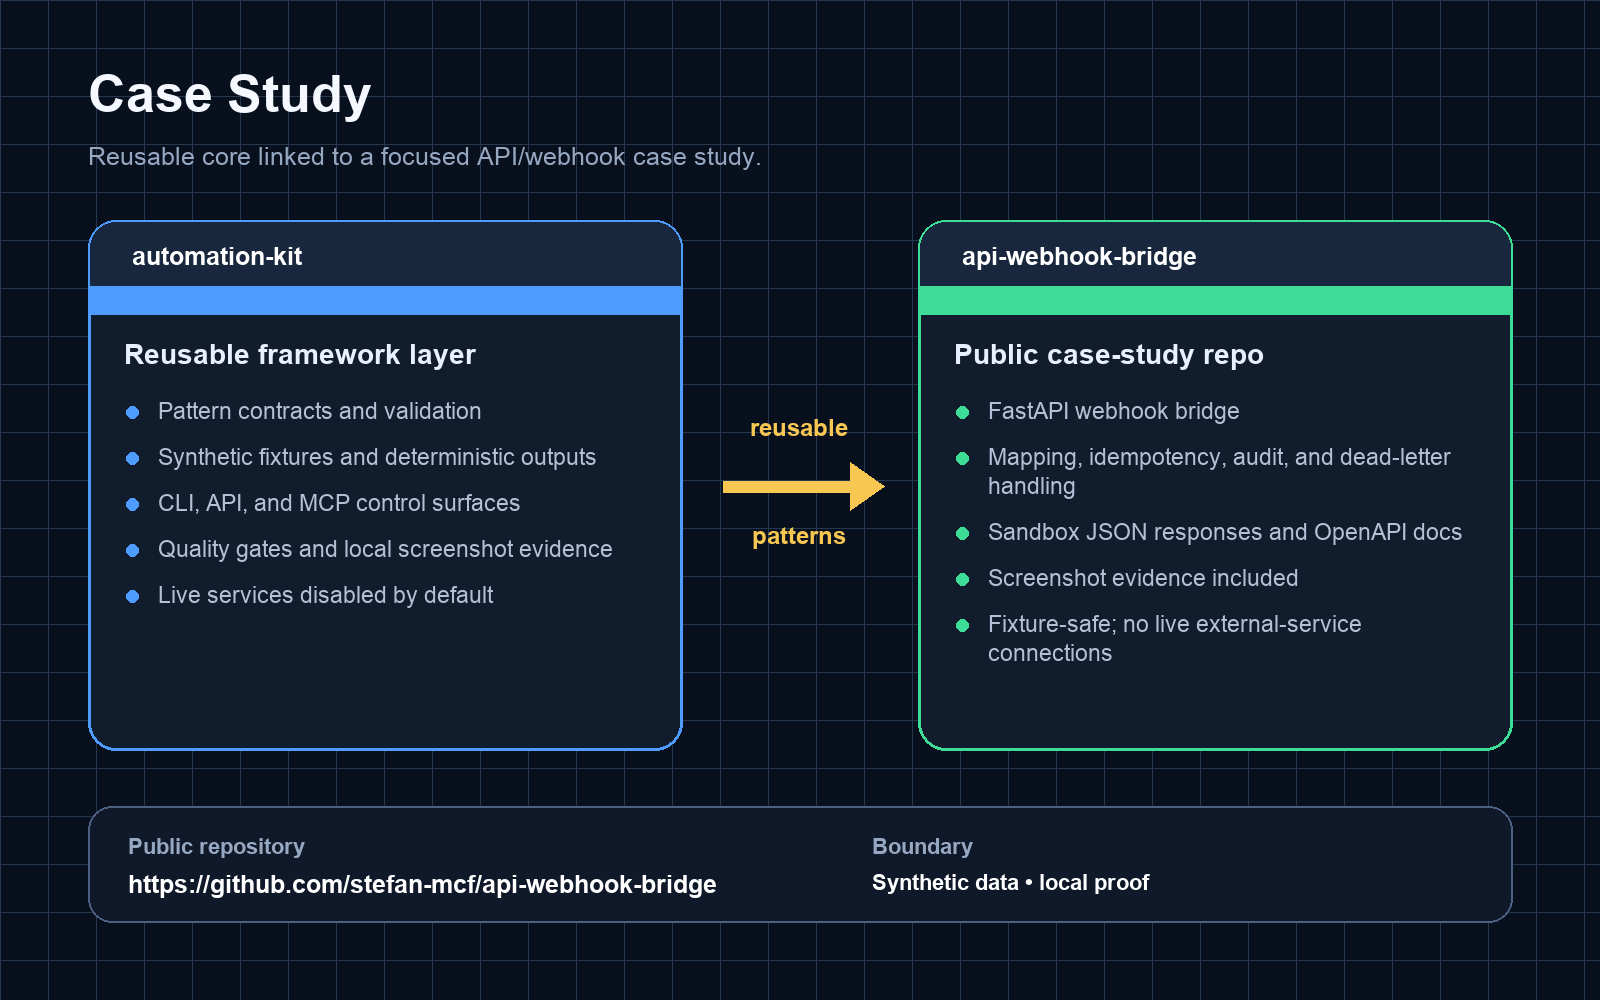
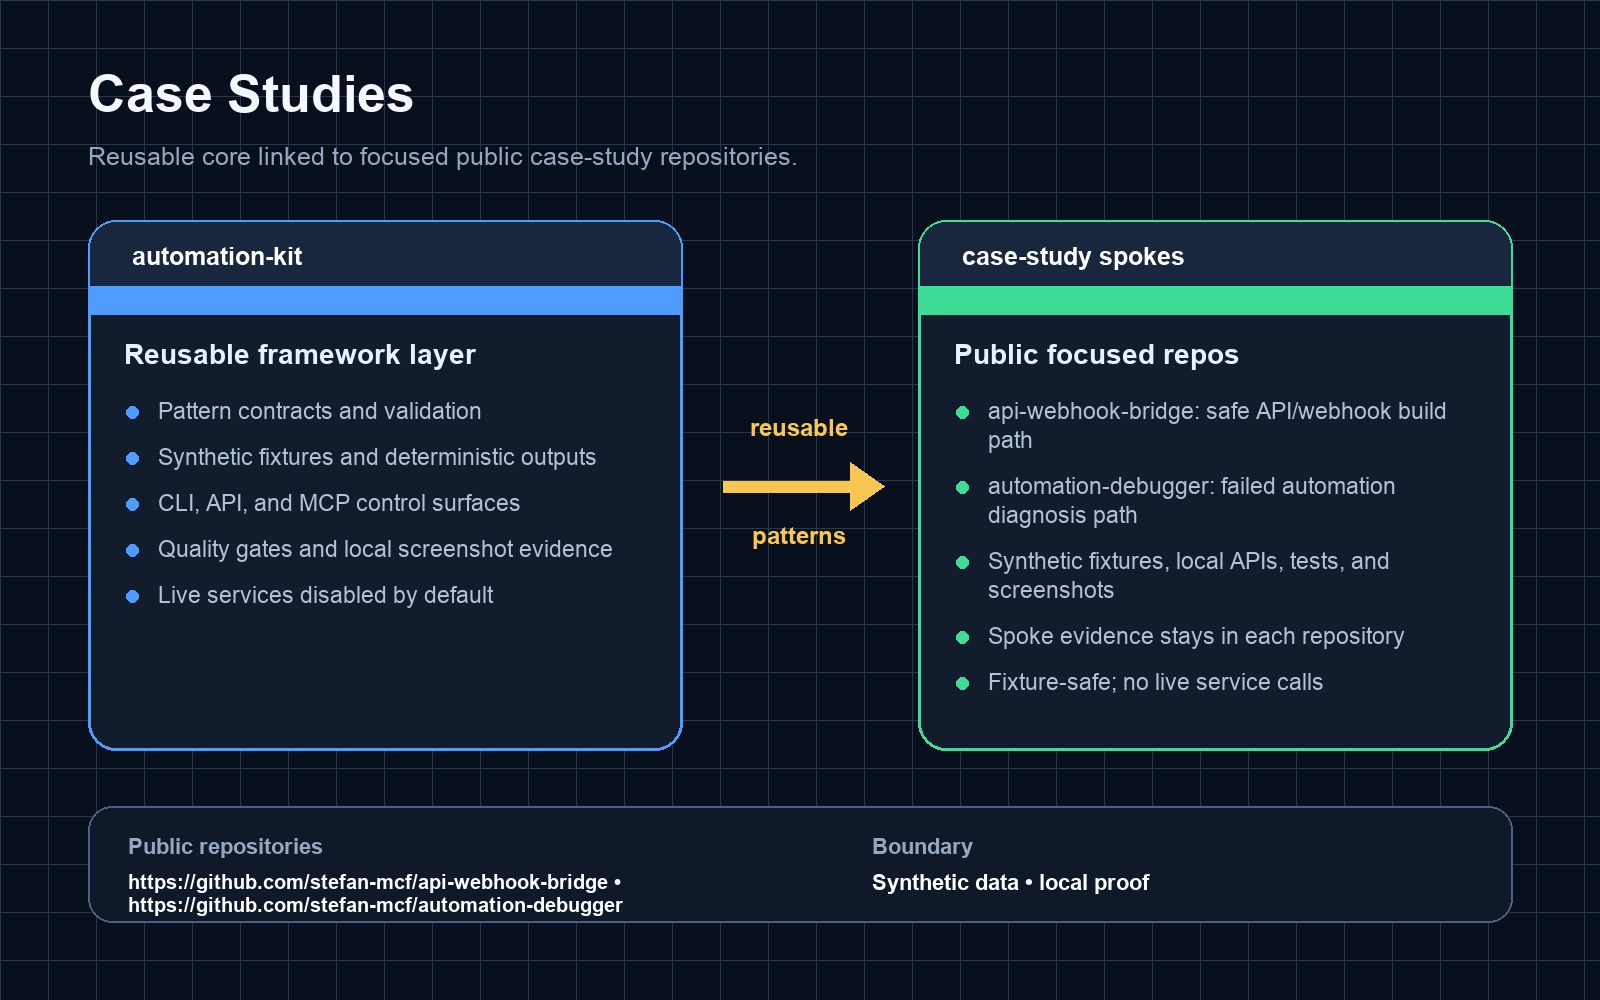
docs: showcase automation debugger case study

diff --git a/tests/test_proof_package.py b/tests/test_proof_package.py
@@ -28,6 +28,7 @@ REQUIRED_DOCS = [
     ROOT / "docs" / "mcp.md",
     ROOT / "docs" / "deployment.md",
     ROOT / "docs" / "case-studies" / "api-webhook-bridge.md",
+    ROOT / "docs" / "case-studies" / "automation-debugger.md",
     ROOT / ".github" / "workflows" / "ci.yml",
     ROOT / "LICENSE",
 ]
@@ -101,7 +102,7 @@ def test_case_study_visual_title_is_professional_and_reproducible() -> None:
     assert "### Case study" not in readme
     assert "Case study proof" in readme
     assert "Case study proof" in screenshots
-    assert "CASE_STUDY_PANEL_TITLE = \"Case Study\"" in renderer
+    assert "CASE_STUDY_PANEL_TITLE = \"Case Studies\"" in renderer
     assert "05-case-study-link.png" in renderer
     assert "draw_text_checked" in renderer
     assert "text overflow" in renderer
@@ -137,7 +138,7 @@ def test_case_study_card_headings_clear_the_colored_header_stripe() -> None:
     allowed_bottom = stripe_top - PANEL_HEADING_STRIPE_CLEARANCE
     text_y = panel_top + PANEL_HEADING_Y_OFFSET
 
-    for heading in ["automation-kit", "api-webhook-bridge"]:
+    for heading in ["automation-kit", "case-study spokes"]:
         bbox = draw.textbbox((132, text_y), heading, font=heading_font)
         assert bbox[3] <= allowed_bottom, (
             f"{heading!r} descends into the colored header stripe: "
@@ -154,6 +155,7 @@ def test_readme_links_to_public_package_and_verified_commands() -> None:
         "docs/screenshots/",
         "docs/proof-spoke-architecture.md",
         "docs/case-studies/api-webhook-bridge.md",
+        "docs/case-studies/automation-debugger.md",
         "docs/api.md",
         "docs/mcp.md",
         "docs/deployment.md",
@@ -184,6 +186,7 @@ def test_public_facing_docs_avoid_unfinished_language_and_private_surface() -> N
         ROOT / "docs" / "proof-spoke-architecture.md",
         ROOT / "docs" / "public-readiness.md",
         ROOT / "docs" / "case-studies" / "api-webhook-bridge.md",
+        ROOT / "docs" / "case-studies" / "automation-debugger.md",
         ROOT / "docs" / "screenshots" / "README.md",
         ROOT / "patterns" / "product-creative-pack" / "README.md",
     ]
@@ -199,17 +202,24 @@ def test_public_facing_docs_avoid_unfinished_language_and_private_surface() -> N
 
 
 def test_public_case_study_link_is_explicit_without_duplicate_screenshots() -> None:
-    case_study = read(ROOT / "docs" / "case-studies" / "api-webhook-bridge.md")
+    api_case_study = read(ROOT / "docs" / "case-studies" / "api-webhook-bridge.md")
+    debugger_case_study = read(ROOT / "docs" / "case-studies" / "automation-debugger.md")
     screenshots = read(ROOT / "docs" / "screenshots" / "README.md")
     readme = read(ROOT / "README.md")
 
-    for content in [case_study, screenshots, readme]:
-        assert "api-webhook-bridge" in content
-        assert "https://github.com/stefan-mcf/api-webhook-bridge" in content
+    expected = {
+        "api-webhook-bridge": "https://github.com/stefan-mcf/api-webhook-bridge",
+        "automation-debugger": "https://github.com/stefan-mcf/automation-debugger",
+    }
+    for repo, url in expected.items():
+        for content in [screenshots, readme]:
+            assert repo in content
+            assert url in content
 
     assert "full spoke screenshot package stays in the spoke repo" in screenshots
-    assert "does not require live external-service credentials" in case_study
-    assert "fixture-safe" in case_study
+    for case_study in [api_case_study, debugger_case_study]:
+        assert "does not require live external-service credentials" in case_study
+        assert "fixture-safe" in case_study
 
 
 def test_local_deployment_proof_is_cloud_free_and_smokeable() -> None:

diff --git a/scripts/render_proof_screenshots.py b/scripts/render_proof_screenshots.py
@@ -21,8 +21,11 @@ except ImportError as exc:  # pragma: no cover - exercised only when tooling is 
 
 ROOT = Path(__file__).resolve().parents[1]
 SCREENSHOT_DIR = ROOT / "docs" / "screenshots"
-CASE_STUDY_URL = "https://github.com/stefan-mcf/api-webhook-bridge"
-CASE_STUDY_PANEL_TITLE = "Case Study"
+CASE_STUDY_URLS = (
+    "https://github.com/stefan-mcf/api-webhook-bridge",
+    "https://github.com/stefan-mcf/automation-debugger",
+)
+CASE_STUDY_PANEL_TITLE = "Case Studies"
 PANEL_HEADING_FONT_SIZE = 25
 PANEL_HEADING_Y_OFFSET = 22
 PANEL_HEADER_STRIPE_TOP_OFFSET = 66
@@ -294,7 +297,7 @@ def render_case_study_link(path: Path) -> None:
     draw_text_checked(
         draw,
         (88, 142),
-        "Reusable core linked to a focused API/webhook case study.",
+        "Reusable core linked to focused public case-study repositories.",
         fill=(150, 168, 193),
         text_font=font(25),
         bounds=(88, 134, width - 88, 184),
@@ -314,14 +317,14 @@ def render_case_study_link(path: Path) -> None:
         color=(78, 156, 255),
     )
     right = Panel(
-        heading="api-webhook-bridge",
-        title="Public case-study repo",
+        heading="case-study spokes",
+        title="Public focused repos",
         bullets=(
-            "FastAPI webhook bridge",
-            "Mapping, idempotency, audit, and dead-letter handling",
-            "Sandbox JSON responses and OpenAPI docs",
-            "Screenshot evidence included",
-            "Fixture-safe; no live external-service connections",
+            "api-webhook-bridge: safe API/webhook build path",
+            "automation-debugger: failed automation diagnosis path",
+            "Synthetic fixtures, local APIs, tests, and screenshots",
+            "Spoke evidence stays in each repository",
+            "Fixture-safe; no live service calls",
         ),
         color=(61, 220, 151),
     )
@@ -335,7 +338,7 @@ def render_case_study_link(path: Path) -> None:
     draw_text_checked(
         draw,
         (128, 834),
-        "Public repository",
+        "Public repositories",
         fill=(150, 168, 193),
         text_font=font(22, bold=True),
         bounds=(128, 826, 760, 860),
@@ -344,12 +347,12 @@ def render_case_study_link(path: Path) -> None:
     draw_wrapped_text_checked(
         draw,
         (128, 870),
-        CASE_STUDY_URL,
+        " • ".join(CASE_STUDY_URLS),
         fill=(255, 255, 255),
-        text_font=font(25, bold=True),
-        max_width=650,
-        max_bottom=910,
-        label="public repository URL",
+        text_font=font(20, bold=True),
+        max_width=690,
+        max_bottom=922,
+        label="public repository URLs",
         line_gap=4,
     )
     draw_text_checked(

diff --git a/README.md b/README.md
@@ -28,7 +28,7 @@ Every pattern lives under `patterns/<name>/` with:
 
 Automation Kit is the core framework. Companion case-study repositories show this toolkit applied to one concrete workflow at a time. A case study should stay thin: use Automation Kit for reusable pattern behavior, add only the workflow-specific mapping or API surface, and prove the result with synthetic fixtures, deterministic outputs, tests, evidence, and screenshots.
 
-The public API/webhook case study is [`api-webhook-bridge`](https://github.com/stefan-mcf/api-webhook-bridge). See [`docs/case-studies/api-webhook-bridge.md`](docs/case-studies/api-webhook-bridge.md) for the Automation Kit relationship.
+Public companion case studies now include [`api-webhook-bridge`](https://github.com/stefan-mcf/api-webhook-bridge) for safe API/webhook builds and [`automation-debugger`](https://github.com/stefan-mcf/automation-debugger) for broken automation diagnosis and replay. See [`docs/case-studies/api-webhook-bridge.md`](docs/case-studies/api-webhook-bridge.md) and [`docs/case-studies/automation-debugger.md`](docs/case-studies/automation-debugger.md) for the Automation Kit relationship.
 
 ## Quick start
 
@@ -110,6 +110,7 @@ The container entrypoint is `auto-kit`, so arguments after the image name are CL
 - [`docs/deployment.md`](docs/deployment.md) — local Docker Compose API mode, healthcheck, and cloud-free deployment boundary.
 - [`docs/proof-spoke-architecture.md`](docs/proof-spoke-architecture.md) — core/case-study architecture and readiness contract.
 - [`docs/case-studies/api-webhook-bridge.md`](docs/case-studies/api-webhook-bridge.md) — public API/webhook case study relationship.
+- [`docs/case-studies/automation-debugger.md`](docs/case-studies/automation-debugger.md) — public automation repair/debug case study relationship.
 - [`docs/screenshots/`](docs/screenshots/) — visual proof panels for CLI validation, pattern outputs, architecture, quality gates, and the case-study link.
 - [`docs/public-readiness.md`](docs/public-readiness.md) — public-surface safety checks and current gate status.
 - [`EVIDENCE.md`](EVIDENCE.md) — latest verification command bundle.
@@ -117,7 +118,7 @@ The container entrypoint is `auto-kit`, so arguments after the image name are CL
 ## Evidence package
 
 Below is the local proof-of-concept evidence for Automation Kit: CLI validation, pattern
-outputs, architecture, quality gates, and the case-study relationship.
+outputs, architecture, quality gates, and the case-study relationships.
 
 [![CLI validation proof](docs/screenshots/01-cli-validation.png)](docs/screenshots/01-cli-validation.png)
 

diff --git a/EVIDENCE.md b/EVIDENCE.md
@@ -14,8 +14,8 @@ Branch: `main`
 | API proof surface | FastAPI/OpenAPI local wrapper for fixture-safe pattern runs |
 | MCP proof surface | Fixture-safe sector/capability registry and MCP handler surface |
 | Deployment proof | Docker image plus local Docker Compose API mode |
-| Public companion case study | `api-webhook-bridge` |
-| Test suite | 147 passed, 1 known httpx deprecation warning |
+| Public companion case studies | `api-webhook-bridge`, `automation-debugger` |
+| Test suite | 152 passed, 1 known httpx deprecation warning |
 | Ruff | Clean |
 | Mypy src/ | Clean |
 | CLI validation | 7/7 passed |
@@ -67,6 +67,7 @@ The MCP surface exposes stable verbs for health, pattern discovery, validation, 
 | Repo | Current role | Evidence |
 |---|---|---|
 | [`api-webhook-bridge`](https://github.com/stefan-mcf/api-webhook-bridge) | API/webhook bridge case study | fixture-safe event mapping, Airtable-style upsert, idempotency, audit/dead-letter proof, tests, screenshots, sandbox responses, case study |
+| [`automation-debugger`](https://github.com/stefan-mcf/automation-debugger) | Automation repair/debug case study | failed-event diagnosis, platform-export normalization, safe replay/refusal, duplicate guards, generated fix reports, local API, tests, screenshots, case study |
 
 Automation Kit keeps the reusable engine layer. Companion case studies keep workflow-specific mapping, API, and evidence packages.
 
@@ -115,4 +116,4 @@ Committed proof panels live under `docs/screenshots/`:
 - `04-quality-gates.png`
 - `05-case-study-link.png` — case-study proof panel
 
-The full `api-webhook-bridge` screenshot package stays in that case-study repository; Automation Kit links to it rather than duplicating it.
+The full `api-webhook-bridge` and `automation-debugger` screenshot packages stay in those case-study repositories; Automation Kit links to them rather than duplicating them.

diff --git a/docs/case-studies/automation-debugger.md b/docs/case-studies/automation-debugger.md
@@ -1,0 +1,26 @@
+# Case Study: Automation Debugger
+
+[`automation-debugger`](https://github.com/stefan-mcf/automation-debugger) is a public companion case study built on Automation Kit conventions. It applies fixture-safe automation patterns to broken Zapier, Make, n8n, webhook, and API-bridge-style events: normalize the payload, classify the failure, decide whether replay is safe, and generate reviewer-readable fix evidence.
+
+## What it proves
+
+- Malformed-date diagnosis with corrected local replay.
+- Missing required field, duplicate event, wrong destination, unknown event type, invalid signature, retry-loop, and rate-limit refusal paths.
+- Zapier, Make, and n8n export normalization into one inspected evidence shape.
+- Local API endpoints for diagnose, replay, and report flows.
+- Generated JSON, Markdown, and HTML fix reports from synthetic fixtures.
+- Public-safe screenshot and command evidence package.
+
+## Automation Kit relationship
+
+Automation Kit remains the reusable core: fixture discipline, mock-first boundaries, pattern contracts, and verification standards. `automation-debugger` stays as the thin applied spoke: it shows the repair path for failed automations without becoming a second framework.
+
+## Public boundary
+
+The case study is fixture-safe and synthetic. It does not require live external-service credentials, cloud resources, real webhook replay, customer records, account exports, or external delivery side effects.
+
+## Links
+
+- Public repository: <https://github.com/stefan-mcf/automation-debugger>
+- Case-study docs in that repository: <https://github.com/stefan-mcf/automation-debugger/tree/main/docs>
+- Screenshots in that repository: <https://github.com/stefan-mcf/automation-debugger/tree/main/docs/screenshots>

diff --git a/docs/screenshots/README.md b/docs/screenshots/README.md
@@ -8,7 +8,7 @@ The committed visual assets are PNG proof panels generated from local repository
 | [`02-pattern-output.png`](02-pattern-output.png) | Pattern outputs are deterministic and reviewable. |
 | [`03-architecture.png`](03-architecture.png) | The package separates workflow contracts, Python equivalents, fixtures, mock clients, local API, MCP controls, and gated live clients. |
 | [`04-quality-gates.png`](04-quality-gates.png) | The project has passing test, lint, type, pattern-validation, Docker, and CI-style gates. |
-| [`05-case-study-link.png`](05-case-study-link.png) | Automation Kit is the framework layer and [`api-webhook-bridge`](https://github.com/stefan-mcf/api-webhook-bridge) is the public case-study repository; the full spoke screenshot package stays in the spoke repo. |
+| [`05-case-study-link.png`](05-case-study-link.png) | Automation Kit is the framework layer; [`api-webhook-bridge`](https://github.com/stefan-mcf/api-webhook-bridge) and [`automation-debugger`](https://github.com/stefan-mcf/automation-debugger) are public case-study repositories; each full spoke screenshot package stays in the spoke repo. |
 
 ## Regeneration
 

diff --git a/docs/proof-spoke-architecture.md b/docs/proof-spoke-architecture.md
@@ -20,7 +20,7 @@ This is intentional. The evidence should not look like seven unrelated half-fram
 | Priority | Repo | Role | Promotion target |
 |---|---|---|---|
 | 1 | `api-webhook-bridge` | Universal API/webhook bridge case study | First flagship spoke; see `docs/case-studies/api-webhook-bridge.md`. |
-| 2 | `automation-debugger` | Broken automation diagnosis and replay proof | Second complete spoke. |
+| 2 | `automation-debugger` | Broken automation diagnosis and replay proof | Second flagship spoke; see `docs/case-studies/automation-debugger.md`. |
 | 3 | `sheets-airtable-sync` | Sheets/Airtable validation, dedupe, and sync proof | Third complete spoke. |
 | 4 | `lowcode-ai-workflows` | Controlled AI steps inside auditable low-code-style workflows | Promote after first three spokes. |
 | 5 | `invoice-workflow-extractor` | Document/invoice extraction and validation workflow | Backlog spoke. |
